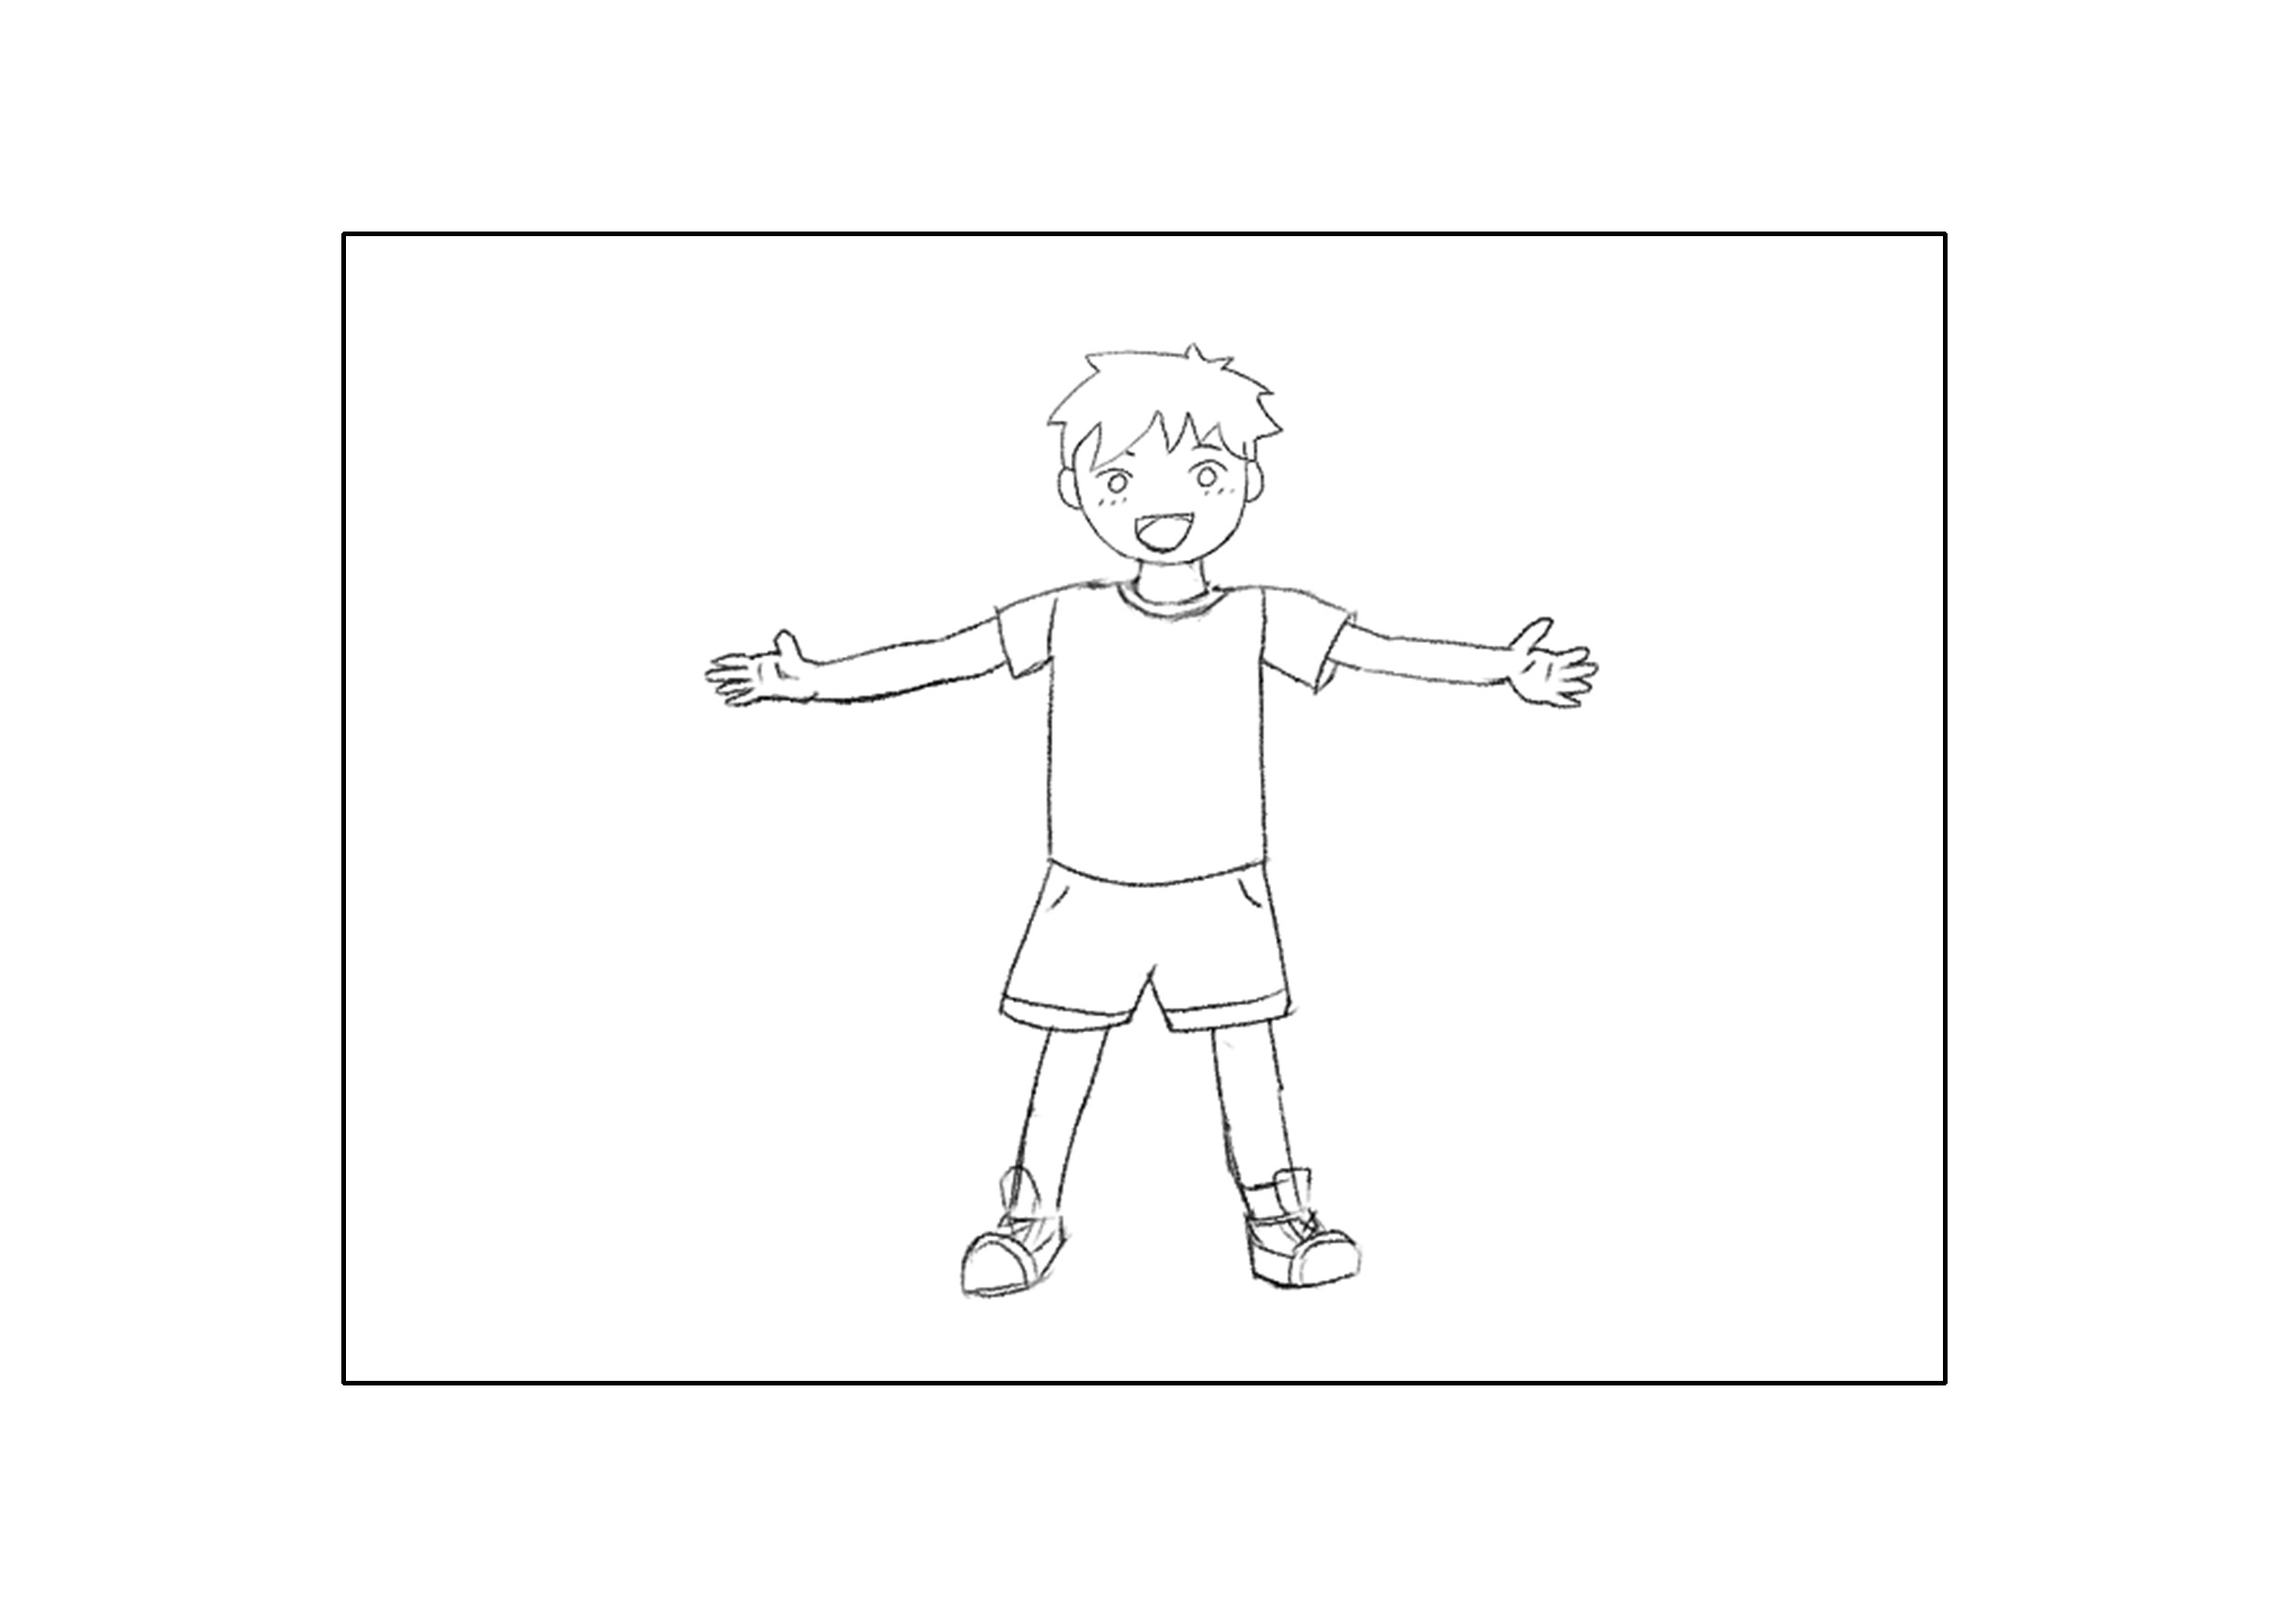
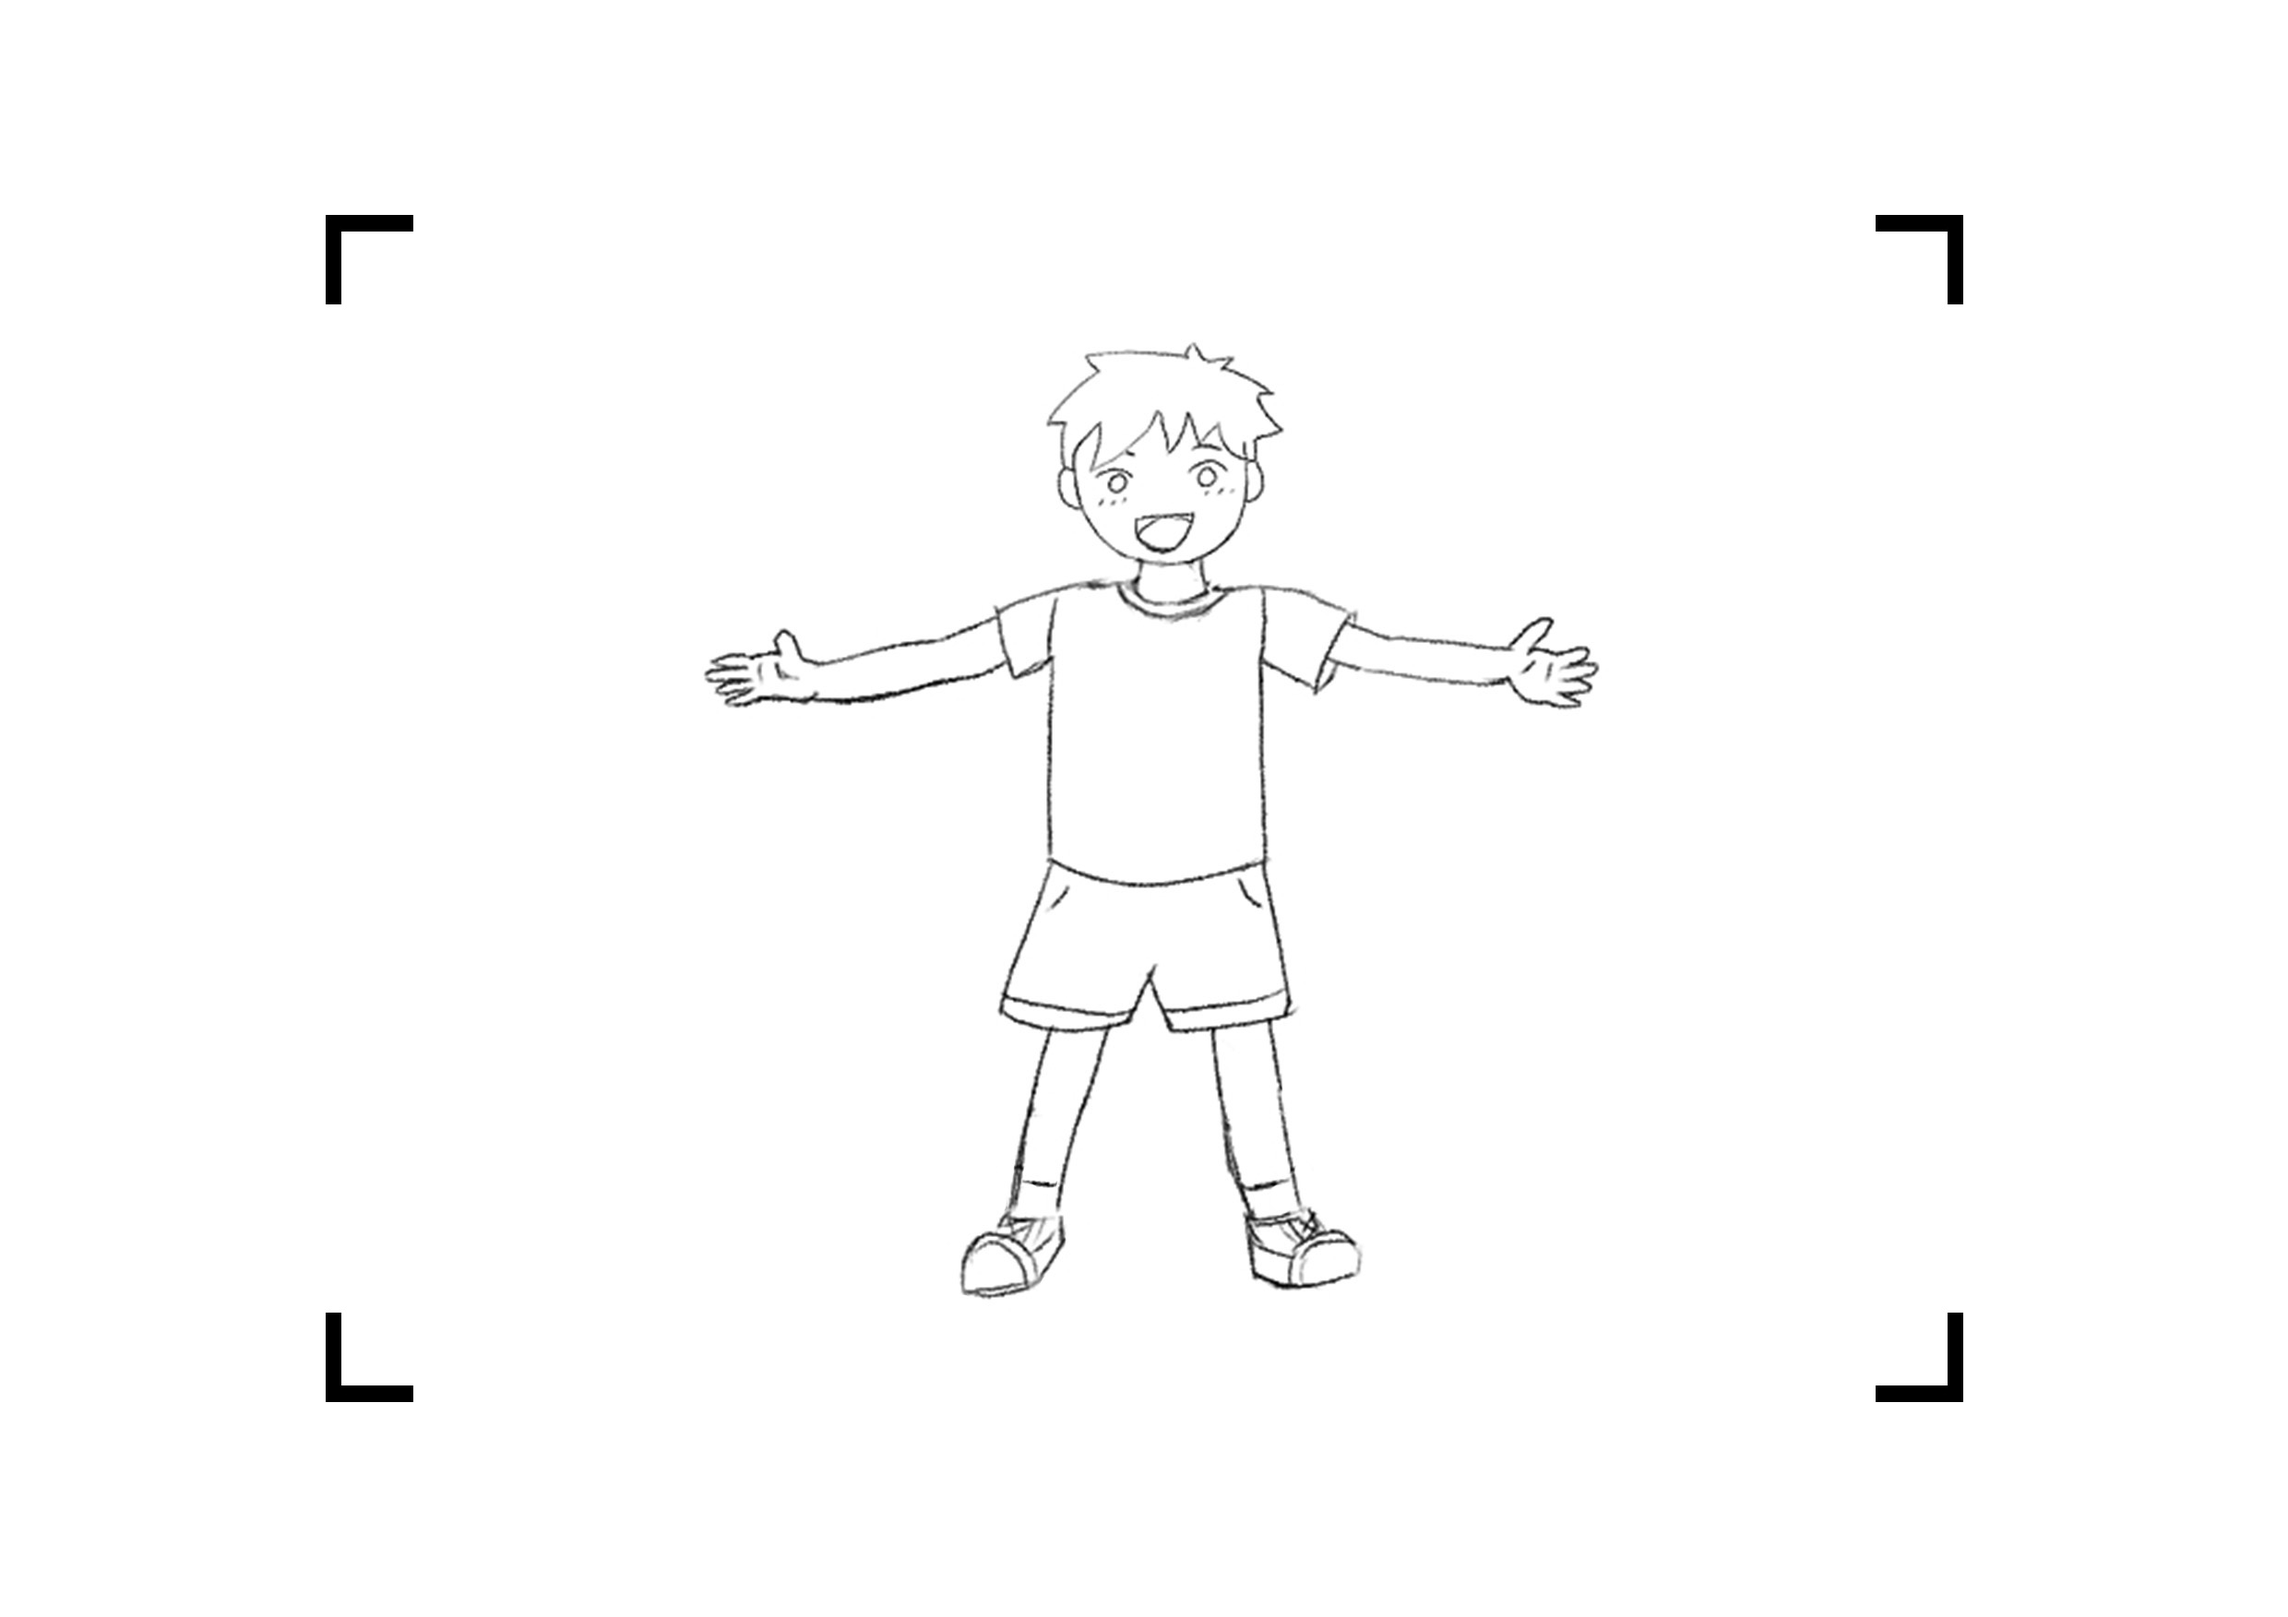
<docs>[#345-KJJ] 캐릭터 출력틀 변경 및 오류 수정

diff --git a/front-end/src/pages/Play/Story1/P4/index.jsx b/front-end/src/pages/Play/Story1/P4/index.jsx
@@ -6,14 +6,14 @@ import audio4 from "../../../../play-background/ske_4.mp3";
 import axios from "axios";
 
 function P4() {
-  let navigate = useNavigate();
+  const navigate = useNavigate();
 
   useEffect(() => {
     const timer = setTimeout(() => {
       navigate("/play/story1/p5");
     }, 16000);
     return () => clearTimeout(timer); // 컴포넌트가 언마운트되면 타이머 취소
-  }, []); // 빈 의존성 배열을 사용하여 마운트 시에만 타이머 설정
+  }, [navigate]); // 빈 의존성 배열을 사용하여 마운트 시에만 타이머 설정
 
   const mission = (e) => {
     axios

diff --git a/front-end/src/pages/Play/Story1/P2/index.jsx b/front-end/src/pages/Play/Story1/P2/index.jsx
@@ -6,7 +6,7 @@ import audio2 from "../../../../play-background/ske_2.mp3";
 import axios from "axios";
 
 function P2() {
-  let navigate = useNavigate();
+  const navigate = useNavigate();
 
   useEffect(() => {
     const timer = setTimeout(() => {
@@ -14,7 +14,7 @@ function P2() {
     }, 16000);
 
     return () => clearTimeout(timer); // 컴포넌트가 언마운트되면 타이머 취소
-  }, []); // 빈 의존성 배열을 사용하여 마운트 시에만 타이머 설정
+  }, [navigate]); // 빈 의존성 배열을 사용하여 마운트 시에만 타이머 설정
 
   const mission = (e) => {
     axios

diff --git a/front-end/src/pages/Play/Story1/P3/index.jsx b/front-end/src/pages/Play/Story1/P3/index.jsx
@@ -6,7 +6,7 @@ import audio3 from "../../../../play-background/ske_3.mp3";
 import axios from "axios";
 
 function P3() {
-  let navigate = useNavigate();
+  const navigate = useNavigate();
 
   useEffect(() => {
     const timer = setTimeout(() => {
@@ -14,7 +14,7 @@ function P3() {
     }, 19000);
 
     return () => clearTimeout(timer); // 컴포넌트가 언마운트되면 타이머 취소
-  }, []); // 빈 의존성 배열을 사용하여 마운트 시에만 타이머 설정
+  }, [navigate]); // 빈 의존성 배열을 사용하여 마운트 시에만 타이머 설정
 
   const mission = (e) => {
     axios

diff --git a/front-end/src/pages/Play/Story1/P5/index.jsx b/front-end/src/pages/Play/Story1/P5/index.jsx
@@ -6,7 +6,7 @@ import audio5 from "../../../../play-background/ske_5.mp3";
 import axios from "axios";
 
 function P5() {
-  let navigate = useNavigate();
+  const navigate = useNavigate();
 
   useEffect(() => {
     const timer = setTimeout(() => {
@@ -14,7 +14,7 @@ function P5() {
     }, 24000);
 
     return () => clearTimeout(timer); // 컴포넌트가 언마운트되면 타이머 취소
-  }, []); // 빈 의존성 배열을 사용하여 마운트 시에만 타이머 설정
+  }, [navigate]); // 빈 의존성 배열을 사용하여 마운트 시에만 타이머 설정
 
   const mission = (e) => {
     axios

diff --git a/front-end/src/pages/Play/Story1/P1/index.jsx b/front-end/src/pages/Play/Story1/P1/index.jsx
@@ -6,7 +6,7 @@ import audio1 from "../../../../play-background/ske_1.mp3";
 import axios from "axios";
 
 function P1() {
-  let navigate = useNavigate();
+  const navigate = useNavigate();
 
   useEffect(() => {
     const timer = setTimeout(() => {
@@ -14,7 +14,7 @@ function P1() {
     }, 5000);
 
     return () => clearTimeout(timer); // 컴포넌트가 언마운트되면 타이머 취소
-  }, []); // 빈 의존성 배열을 사용하여 마운트 시에만 타이머 설정
+  }, [navigate]); // 빈 의존성 배열을 사용하여 마운트 시에만 타이머 설정
 
   const mission = (e) => {
     axios

diff --git a/front-end/src/pages/Play/Story1/P10/index.jsx b/front-end/src/pages/Play/Story1/P10/index.jsx
@@ -7,14 +7,14 @@ import { useEffect } from "react";
 
 function P10() {
   const navigate = useNavigate();
-
+  
   useEffect(() => {
     const timer = setTimeout(() => {
     navigate("/play/story1/p11");
   }, 6000);
 
   return () => {clearTimeout(timer)}
-  }, [])
+  }, [navigate])
   
 
   const mission = (e) => {

diff --git a/front-end/src/pages/Play/Story1/P12/index.jsx b/front-end/src/pages/Play/Story1/P12/index.jsx
@@ -14,7 +14,7 @@ function P12() {
     }, 24000);
 
     return () => {clearTimeout(timer)}
-  }, [])
+  }, [navigate])
   
   const mission = (e) => {
     axios

diff --git a/front-end/src/pages/Play/Story1/P11/index.jsx b/front-end/src/pages/Play/Story1/P11/index.jsx
@@ -14,7 +14,7 @@ function P11() {
     }, 6000);
 
     return () => {clearTimeout(timer)}
-  }, [])
+  }, [navigate])
   
   const mission = (e) => {
     axios

diff --git a/front-end/src/pages/Play/Story1/P6/index.jsx b/front-end/src/pages/Play/Story1/P6/index.jsx
@@ -14,7 +14,7 @@ function P6() {
     }, 17000);
 
     return () => {clearTimeout(timer);}
-  }, [])
+  }, [navigate])
   
 
   const mission = (e) => {

diff --git a/front-end/src/pages/Play/Story1/P9/index.jsx b/front-end/src/pages/Play/Story1/P9/index.jsx
@@ -14,7 +14,7 @@ function P9() {
     }, 11000);
 
     return () => {clearTimeout(timer)};
-  }, [])
+  }, [navigate])
   
 
   const mission = (e) => {

diff --git a/front-end/src/pages/Play/Story1/P14/index.jsx b/front-end/src/pages/Play/Story1/P14/index.jsx
@@ -14,7 +14,7 @@ function P14() {
     }, 8000);
 
     return () => {clearTimeout(timer)}
-  }, [])
+  }, [navigate])
   
 
   const mission = (e) => {

diff --git a/front-end/src/pages/Play/Story1/P13/index.jsx b/front-end/src/pages/Play/Story1/P13/index.jsx
@@ -14,7 +14,7 @@ function P13() {
     }, 8000);
 
     return () => {clearTimeout(timer)};
-  })
+  }, [navigate])
   
 
   const mission = (e) => {
